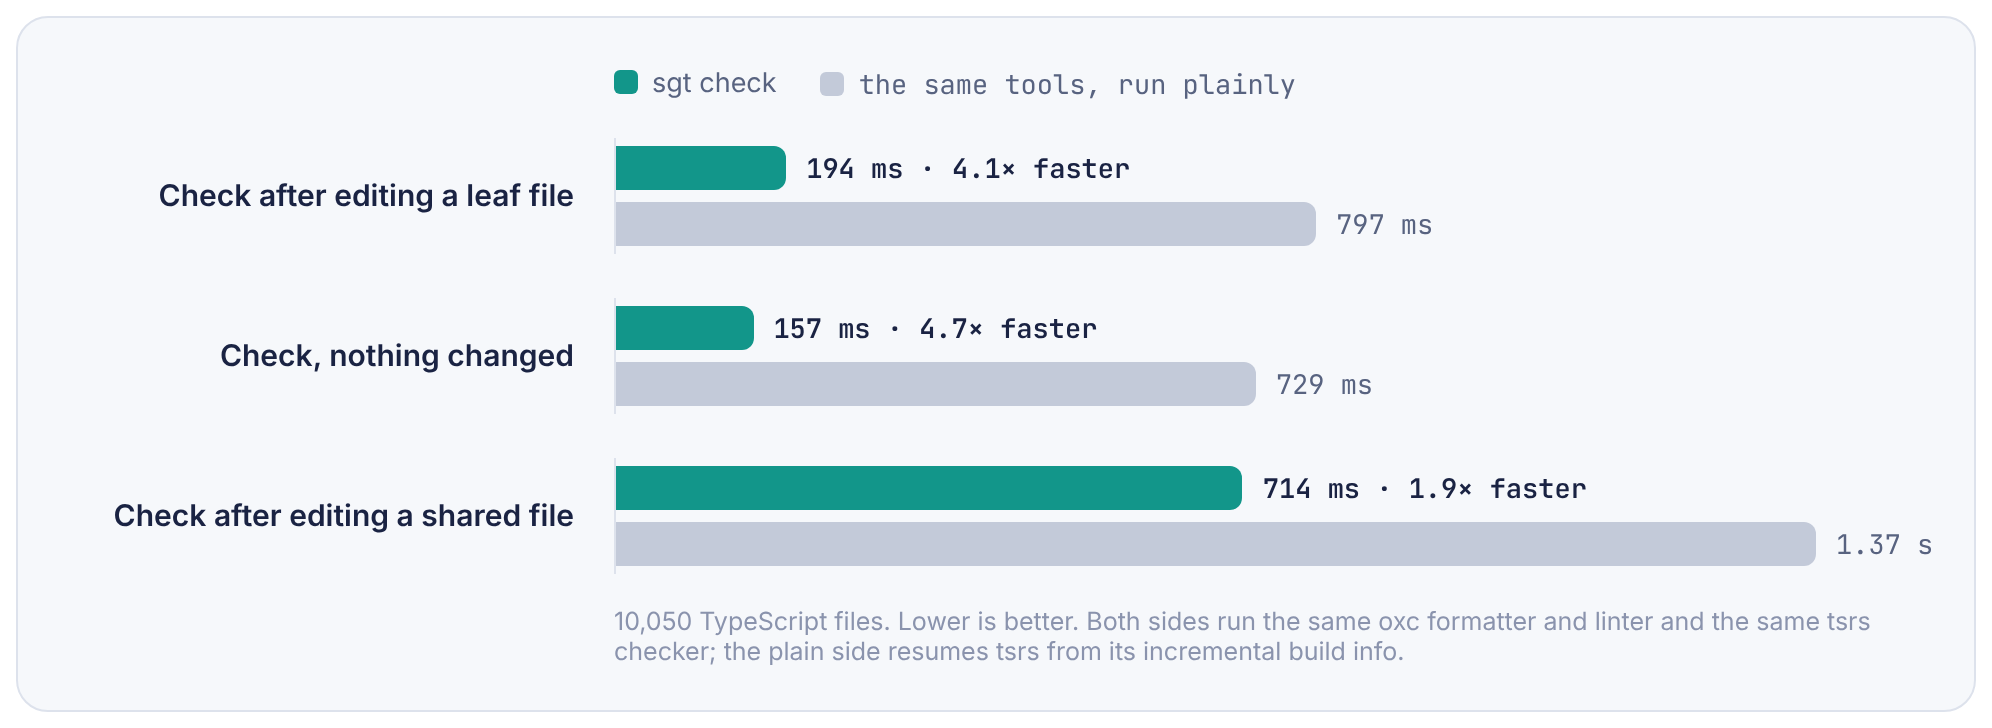
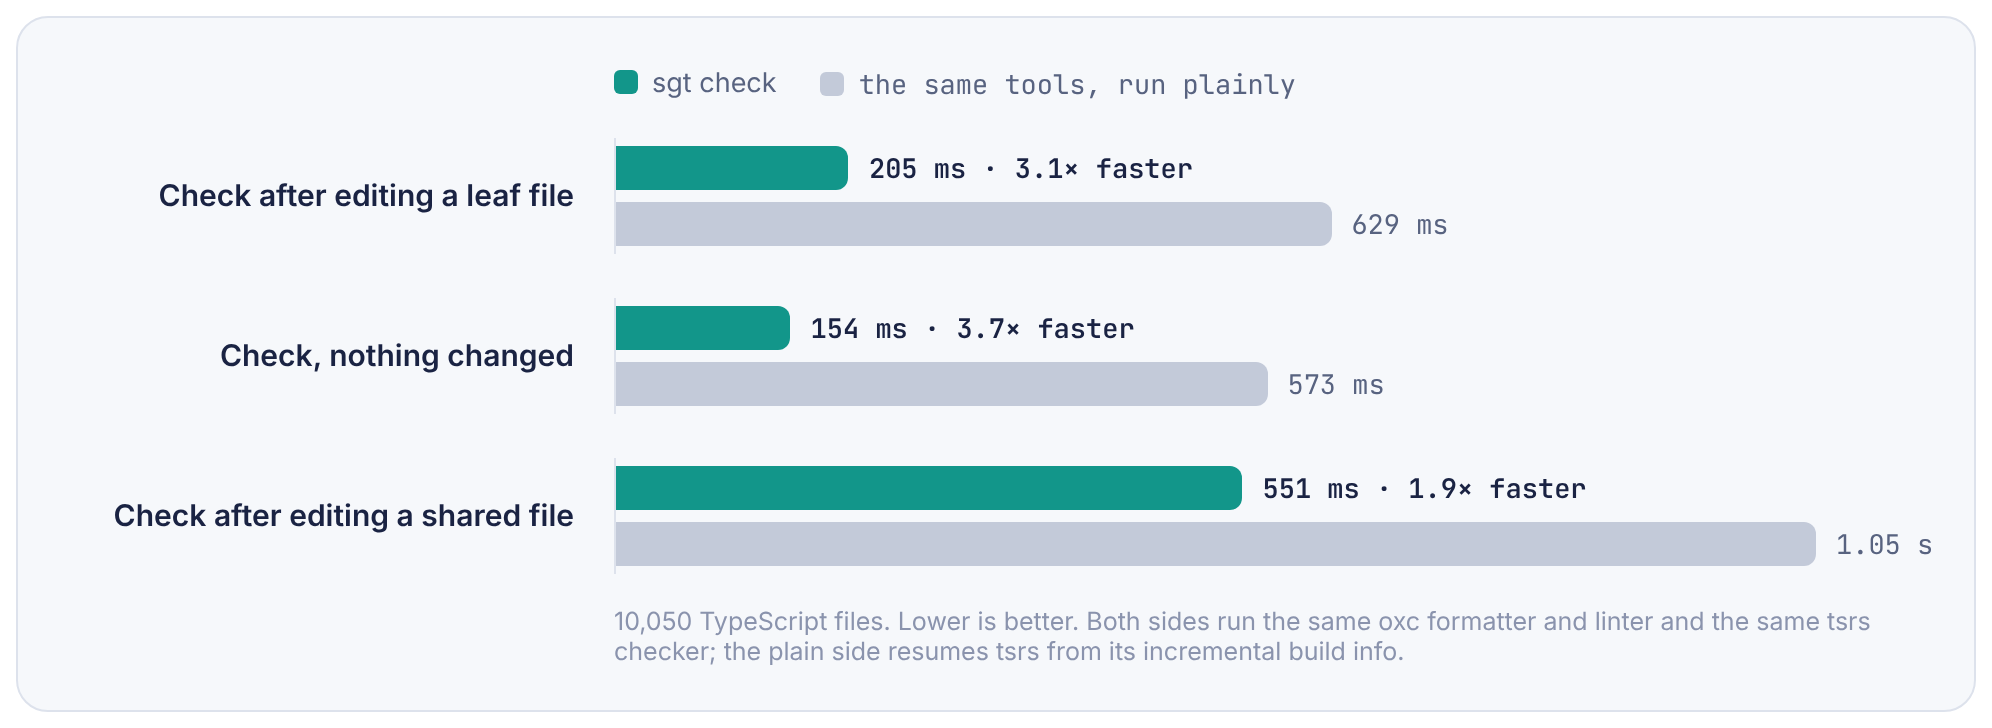
Benchmarks from a fresh run, and Windows install (#5)
* Show Sergeant beside Turborepo, Nx, Moon and Bazel running the same tools

Claude-Session: https://claude.ai/code/session_019RdShRN7qShD1RrLWzMU1A

* Benchmarks from a fresh run, and Windows install

Claude-Session: https://claude.ai/code/session_019RdShRN7qShD1RrLWzMU1A

---------

diff --git a/assets/src/benchmarks.js b/assets/src/benchmarks.js
@@ -1,11 +1,11 @@
 // The numbers the benchmark chart draws. Copied from the benchmark run named in `source`,
 // never typed from memory: update them from a newer run, not by hand.
 window.BENCHMARKS = {
-  source: "Braden1996/sergeant benchmarks/results.json, 2026-11-17, commit d7f9d11: 10,050 files in 250 units, medians on 4 cores of an Intel Xeon @ 2.10GHz, tsrs 7.1.0-beta.tsrs1",
+  source: "Braden1996/sergeant benchmarks/results.json, 2026-11-17, commit 78e4e10: 10,050 files in 250 units, medians on 4 cores of an Intel Xeon @ 2.30GHz, tsrs 7.1.0-beta.tsrs1",
   other: "the same tools, run plainly",
   rows: [
-    { label: "Check after editing a leaf file", sgt: 0.1939, other: 0.7974 },
-    { label: "Check, nothing changed", sgt: 0.1565, other: 0.7288 },
-    { label: "Check after editing a shared file", sgt: 0.714, other: 1.3668 },
+    { label: "Check after editing a leaf file", sgt: 0.2048, other: 0.6289 },
+    { label: "Check, nothing changed", sgt: 0.1535, other: 0.5727 },
+    { label: "Check after editing a shared file", sgt: 0.5508, other: 1.0549 },
   ],
 };

diff --git a/README.md b/README.md
@@ -10,6 +10,7 @@
 <p align="center">
   <a href="https://github.com/Braden1996/sergeant-releases/releases/latest"><img src="https://img.shields.io/github/v/release/Braden1996/sergeant-releases?label=release&color=3dd6c4" alt="Latest release"></a>
   <img src="https://img.shields.io/badge/linux-x86--64%20%7C%20arm64-1a2343" alt="Linux x86-64 and arm64">
+  <img src="https://img.shields.io/badge/windows-x86--64-1a2343" alt="Windows x86-64">
   <img src="https://img.shields.io/badge/status-early-f5b544" alt="Early">
 </p>
 
@@ -149,30 +150,34 @@ only what the build system chooses not to redo.
 
 <picture>
   <source media="(prefers-color-scheme: dark)" srcset="assets/benchmarks-dark.png">
-  <img alt="Check after editing a leaf file: 194 ms against 797 ms. Nothing changed: 157 ms against 729 ms. After editing a shared file: 714 ms against 1.37 s." src="assets/benchmarks.png">
+  <img alt="Check after editing a leaf file: 205 ms against 629 ms. Nothing changed: 154 ms against 573 ms. After editing a shared file: 551 ms against 1.05 s." src="assets/benchmarks.png">
 </picture>
 
 The whole run, including where Sergeant is slower. A cold `check` does all the work the plain
-tools do, then also checks the import rules and writes every result to its cache. `sgt test`
+tools do, then also checks the import rules and writes every result to its cache, and ends up
+about level with them. `sgt test`
 gives every test file a fresh global object so that one file can't leak into another, which
 costs time beside one `bun test` process when every test has to run.
 
 | | Sergeant | Same tools, plainly | | Work redone |
 | --- | ---: | ---: | ---: | ---: |
-| `check`, cold | 1.29 s | 1.14 s | 1.1× slower | 40,200 of 40,200 |
-| `check`, nothing changed | 157 ms | 729 ms | 4.7× faster | 0 of 40,200 |
-| `check` after editing a shared file | 714 ms | 1.37 s | 1.9× faster | 7,155 of 40,200 |
-| `check` after editing a leaf file | 194 ms | 797 ms | 4.1× faster | 4 of 40,200 |
-| `test`, cold | 1.44 s | 1.56 s | 1.1× faster | 2,000 of 2,000 |
-| `test` after editing a shared file | 897 ms | 1.55 s | 1.7× faster | 685 of 2,000 |
-| `test` after editing a leaf file | 132 ms | 1.47 s | 11.1× faster | 0 of 2,000 |
+| `check`, cold | 939 ms | 922 ms | about the same | 40,200 of 40,200 |
+| `check`, nothing changed | 154 ms | 573 ms | 3.7× faster | 0 of 40,200 |
+| `check` after editing a shared file | 551 ms | 1.05 s | 1.9× faster | 7,155 of 40,200 |
+| `check` after editing inside a function of a shared file | 206 ms | 654 ms | 3.2× faster | 4 of 40,200 |
+| `check` after editing a leaf file | 205 ms | 629 ms | 3.1× faster | 4 of 40,200 |
+| the same, daemon running | 101 ms | 668 ms | 6.6× faster | 4 of 40,200 |
+| `test`, cold | 1.49 s | 1.41 s | about the same | 2,000 of 2,000 |
+| `test`, nothing changed | 133 ms | 1.33 s | 9.9× faster | 0 of 2,000 |
+| `test` after editing a shared file | 978 ms | 1.36 s | 1.4× faster | 685 of 2,000 |
+| `test` after editing a leaf file | 123 ms | 1.28 s | 10.4× faster | 0 of 2,000 |
 
 Sixteen agents running `sgt test` at once on one commit, on a 4-core machine with 48
 CPU-bound test files each: **30.4 s → 4.1 s** wall time and **768 → 48** test runs once
 the job pool and one-run-per-key landed. With every key different, so nothing can be
 shared, the pool still cuts peak test memory from 1,077 MB to 135 MB.
 
-<sub>Medians on 4 cores of an Intel Xeon @ 2.10GHz (Linux), 2026-11-17, tsrs 7.1.0-beta.tsrs1 and
+<sub>Medians on 4 cores of an Intel Xeon @ 2.30GHz (Linux), 2026-11-17, commit 78e4e10, tsrs 7.1.0-beta.tsrs1 and
 Bun 1.4.4. The plain `bun test` reruns all 2,000 tests whatever changed. The workspaces are
 generated and regular, so real repositories are slower for both; the ratios say more than
 the times.</sub>
@@ -185,22 +190,26 @@ oxc, and `bun test --isolate`. Nobody runs `tsc`, so the build system is the onl
 
 | | Sergeant | Turborepo | Nx | Moon | Bazel |
 | --- | ---: | ---: | ---: | ---: | ---: |
-| `check`, cold | **1.28 s** | 23.72 s | 39.76 s | 29.78 s | 41.15 s |
-| `check`, nothing changed | **172 ms** | 176 ms | 718 ms | 5.92 s | 373 ms |
-| `check` after editing a shared file | **782 ms** | 26.06 s | 42.60 s | 35.07 s | 33.74 s |
-| `check` after editing a leaf file | **220 ms** | 371 ms | 1.45 s | 6.53 s | 822 ms |
-| `check` in a fresh checkout, cache shared | **204 ms** | 284 ms | 40.68 s | 30.78 s | 5.71 s |
-| `test`, cold | **1.68 s** | 2.28 s | 17.29 s | 10.65 s | 43.72 s |
-| `test`, nothing changed | **155 ms** | 208 ms | 783 ms | 7.33 s | 589 ms |
-| `test` after editing a shared file | **1.21 s** | 2.47 s | 18.20 s | 11.36 s | 10.61 s |
-| `test` after editing a leaf file | **167 ms** | 248 ms | 1.20 s | 7.16 s | 1.05 s |
+| `check`, cold | **939 ms** | 18.84 s | 32.19 s | 26.52 s | 33.66 s |
+| `check`, nothing changed | 154 ms | **140 ms** | 611 ms | 6.23 s | 395 ms |
+| `check` after editing a shared file | **551 ms** | 19.45 s | 31.31 s | 26.42 s | 27.36 s |
+| `check` after editing inside a function of a shared file | **206 ms** | 18.16 s | 31.82 s | 26.16 s | 27.91 s |
+| `check` after editing a leaf file | **205 ms** | 326 ms | 1.09 s | 6.30 s | 788 ms |
+| `check` in a fresh checkout, cache shared | 195 ms | **172 ms** | 34.50 s | 29.29 s | 5.52 s |
+| `test`, cold | **1.49 s** | 2.06 s | 14.38 s | 11.08 s | 49.78 s |
+| `test`, nothing changed | **133 ms** | 189 ms | 621 ms | 7.03 s | 560 ms |
+| `test` in a fresh checkout, cache shared | **175 ms** | 238 ms | 14.63 s | 10.20 s | 50.41 s |
+| `test` after editing a shared file | **978 ms** | 2.05 s | 15.48 s | 10.39 s | 8.61 s |
+| `test` after editing a leaf file | **123 ms** | 172 ms | 988 ms | 6.40 s | 564 ms |
 
-Where nothing has to run, Turborepo is within a few percent of Sergeant, which is inside the
-noise of these runs. The gap is in cold runs and after an edit, where a package-level system
-reruns every package the edit touches and starts a checker for each one.
+Where nothing has to run, Turborepo and Sergeant are within about 25 ms of each other, and
+Turborepo is slightly ahead on two `check` rows. The gap is in cold runs and after an edit,
+where a package-level system reruns every package the edit touches and starts a checker for
+each one. An edit inside a function body changes no file's declarations, so Sergeant rechecks
+only that file; the others rerun every package that imports it.
 
 <sub>10,050 files in 250 units, medians of 5 runs (3 cold), tools taking turns each round, on
-4 cores of an Intel Xeon @ 2.10GHz (Linux), 2026-11-17. Turborepo 2.11.11, Nx 24.0.6, Moon
+4 cores of an Intel Xeon @ 2.30GHz (Linux), 2026-11-17, commit 78e4e10. Turborepo 2.11.11, Nx 24.0.6, Moon
 2.6.5 and Bazel 9.3.2. Nx and Moon have no shared cache without a remote cache server, so in a
 fresh checkout they rerun everything.</sub>
 
@@ -235,7 +244,7 @@ the package, so an agent's one-line edit reruns everything a package touches.
 | **Luau** | Lune programs and tests, World of Warcraft addons. Typechecked by luau-lsp in strict mode, formatted by StyLua, linted by selene. |
 | **Rust** | Partial. A crate is one unit and Cargo does the compiling; Sergeant decides when Cargo needs asking, and a new worktree reuses the dependencies another one compiled. |
 | **Linux** | Prebuilt, static binaries for x86-64 and arm64. Sealed runs need Linux 6.7 with Landlock and unprivileged user namespaces. |
-| **Windows** | Builds and passes its test suite, but runs are not sealed and no binary is published yet. |
+| **Windows** | A prebuilt `sgt.exe` for x86-64, installed with `install.ps1`. Runs are not sealed. |
 | **macOS** | No published binary yet. |
 
 ## Install
@@ -248,6 +257,15 @@ This fetches the archive for the machine it runs on, checks it against its publi
 sha256, and puts `sgt` in `~/.local/bin`. It needs no token. Sergeant also expects
 [Bun](https://bun.sh), [pnpm](https://pnpm.io) and [Node](https://nodejs.org) on the path,
 and `sgt doctor` says what is missing.
+
+On Windows, in PowerShell:
+
+```powershell
+irm https://github.com/Braden1996/sergeant-releases/releases/latest/download/install.ps1 | iex
+```
+
+This puts `sgt.exe` in `%LOCALAPPDATA%\sergeant\bin`, after the same sha256 check, and
+prints the line that adds that folder to your path. `SGT_VERSION` works the same way.
 
 | Variable | What it does |
 | --- | --- |
